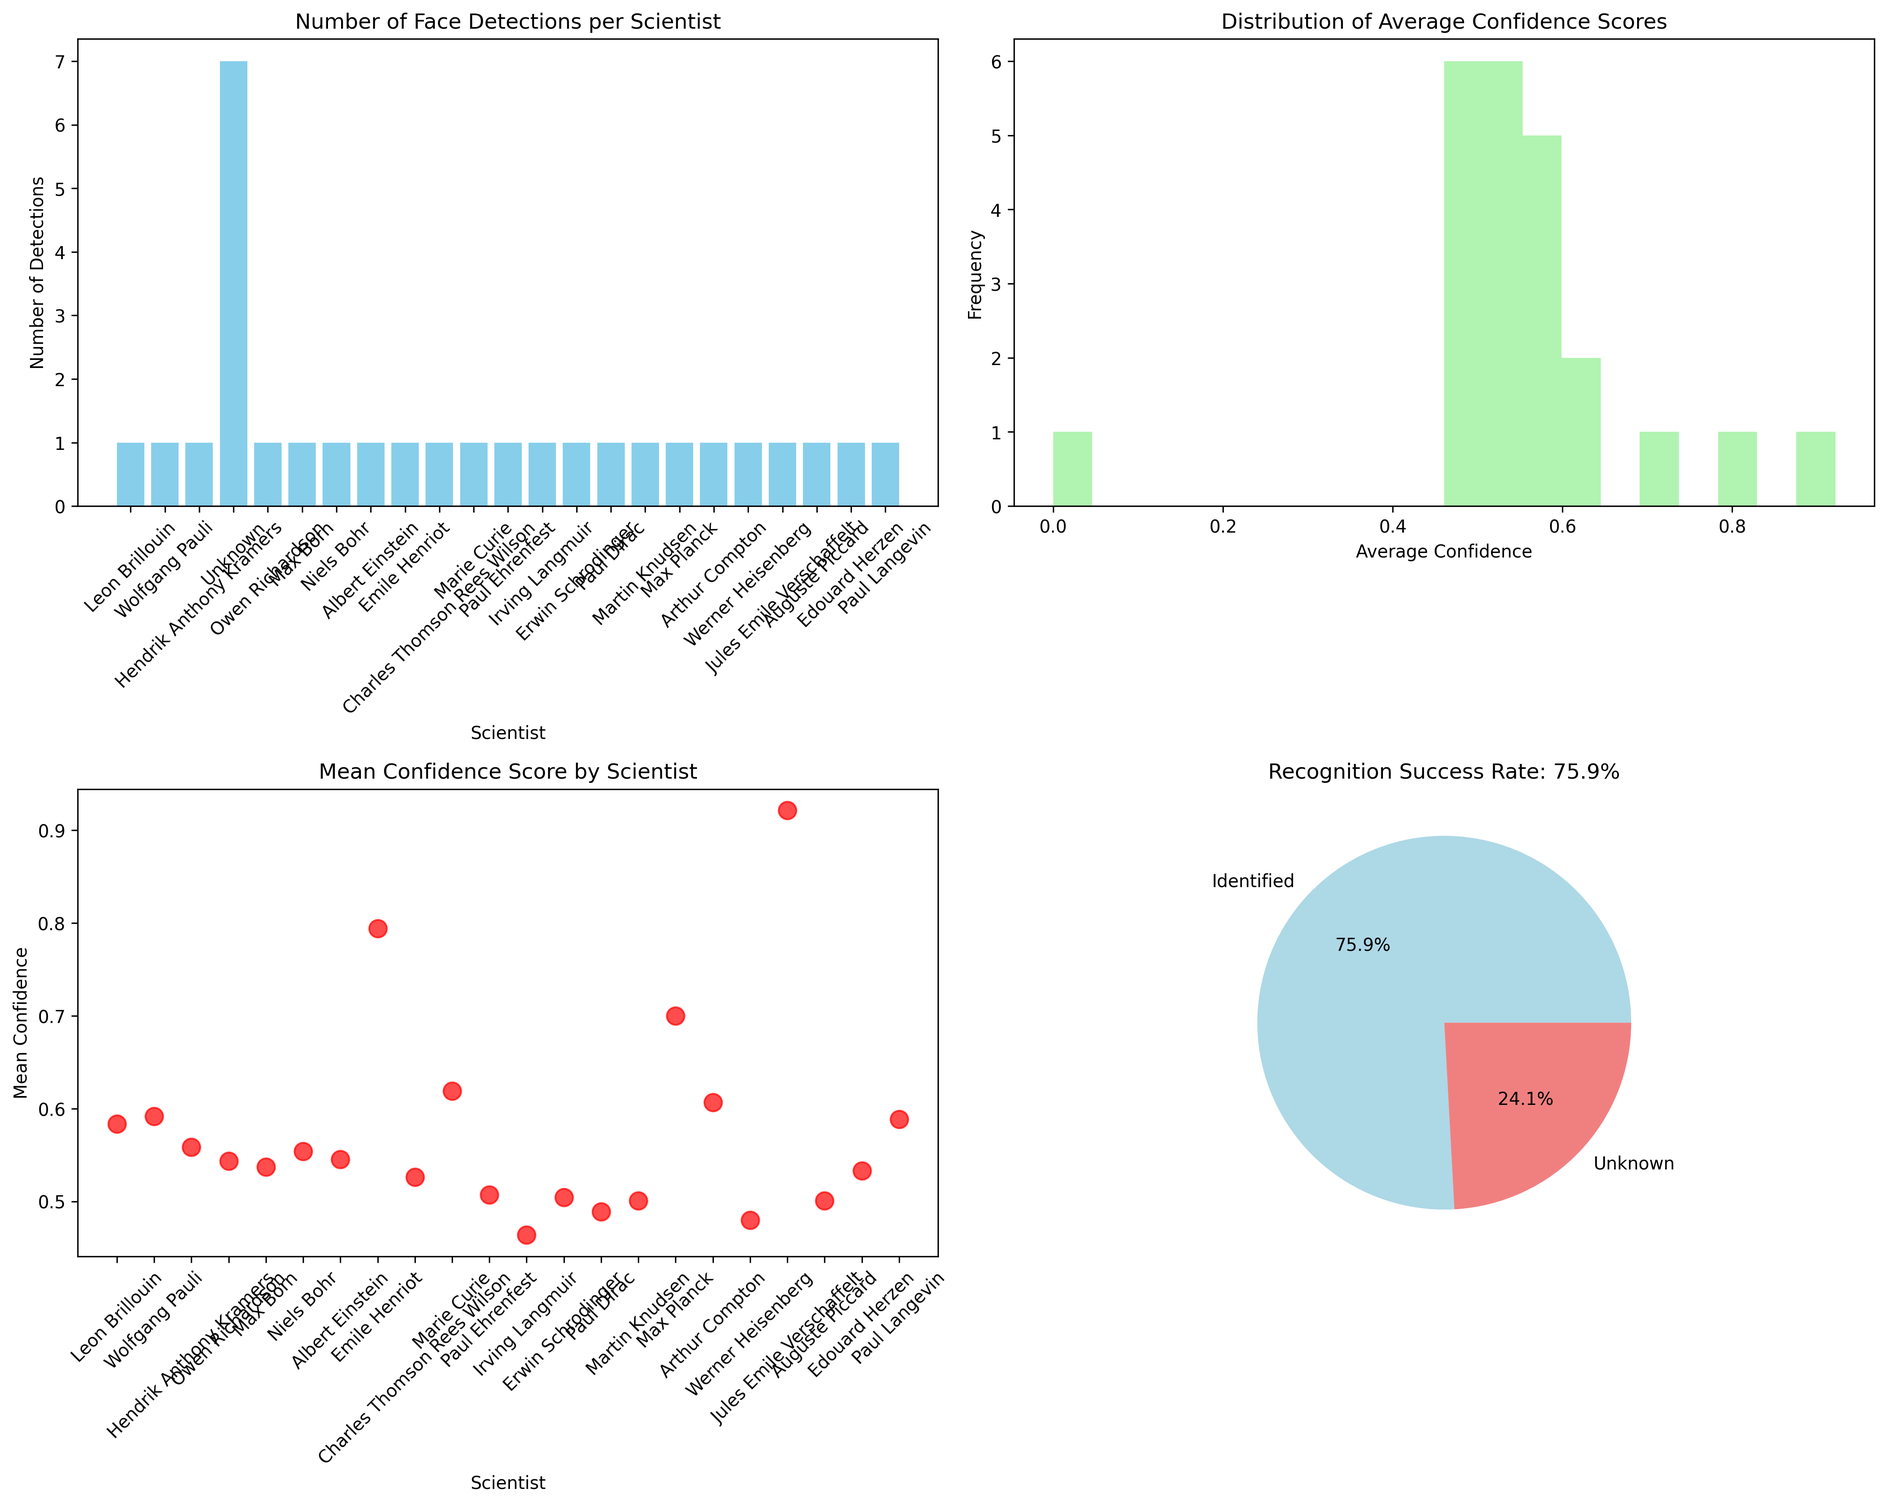
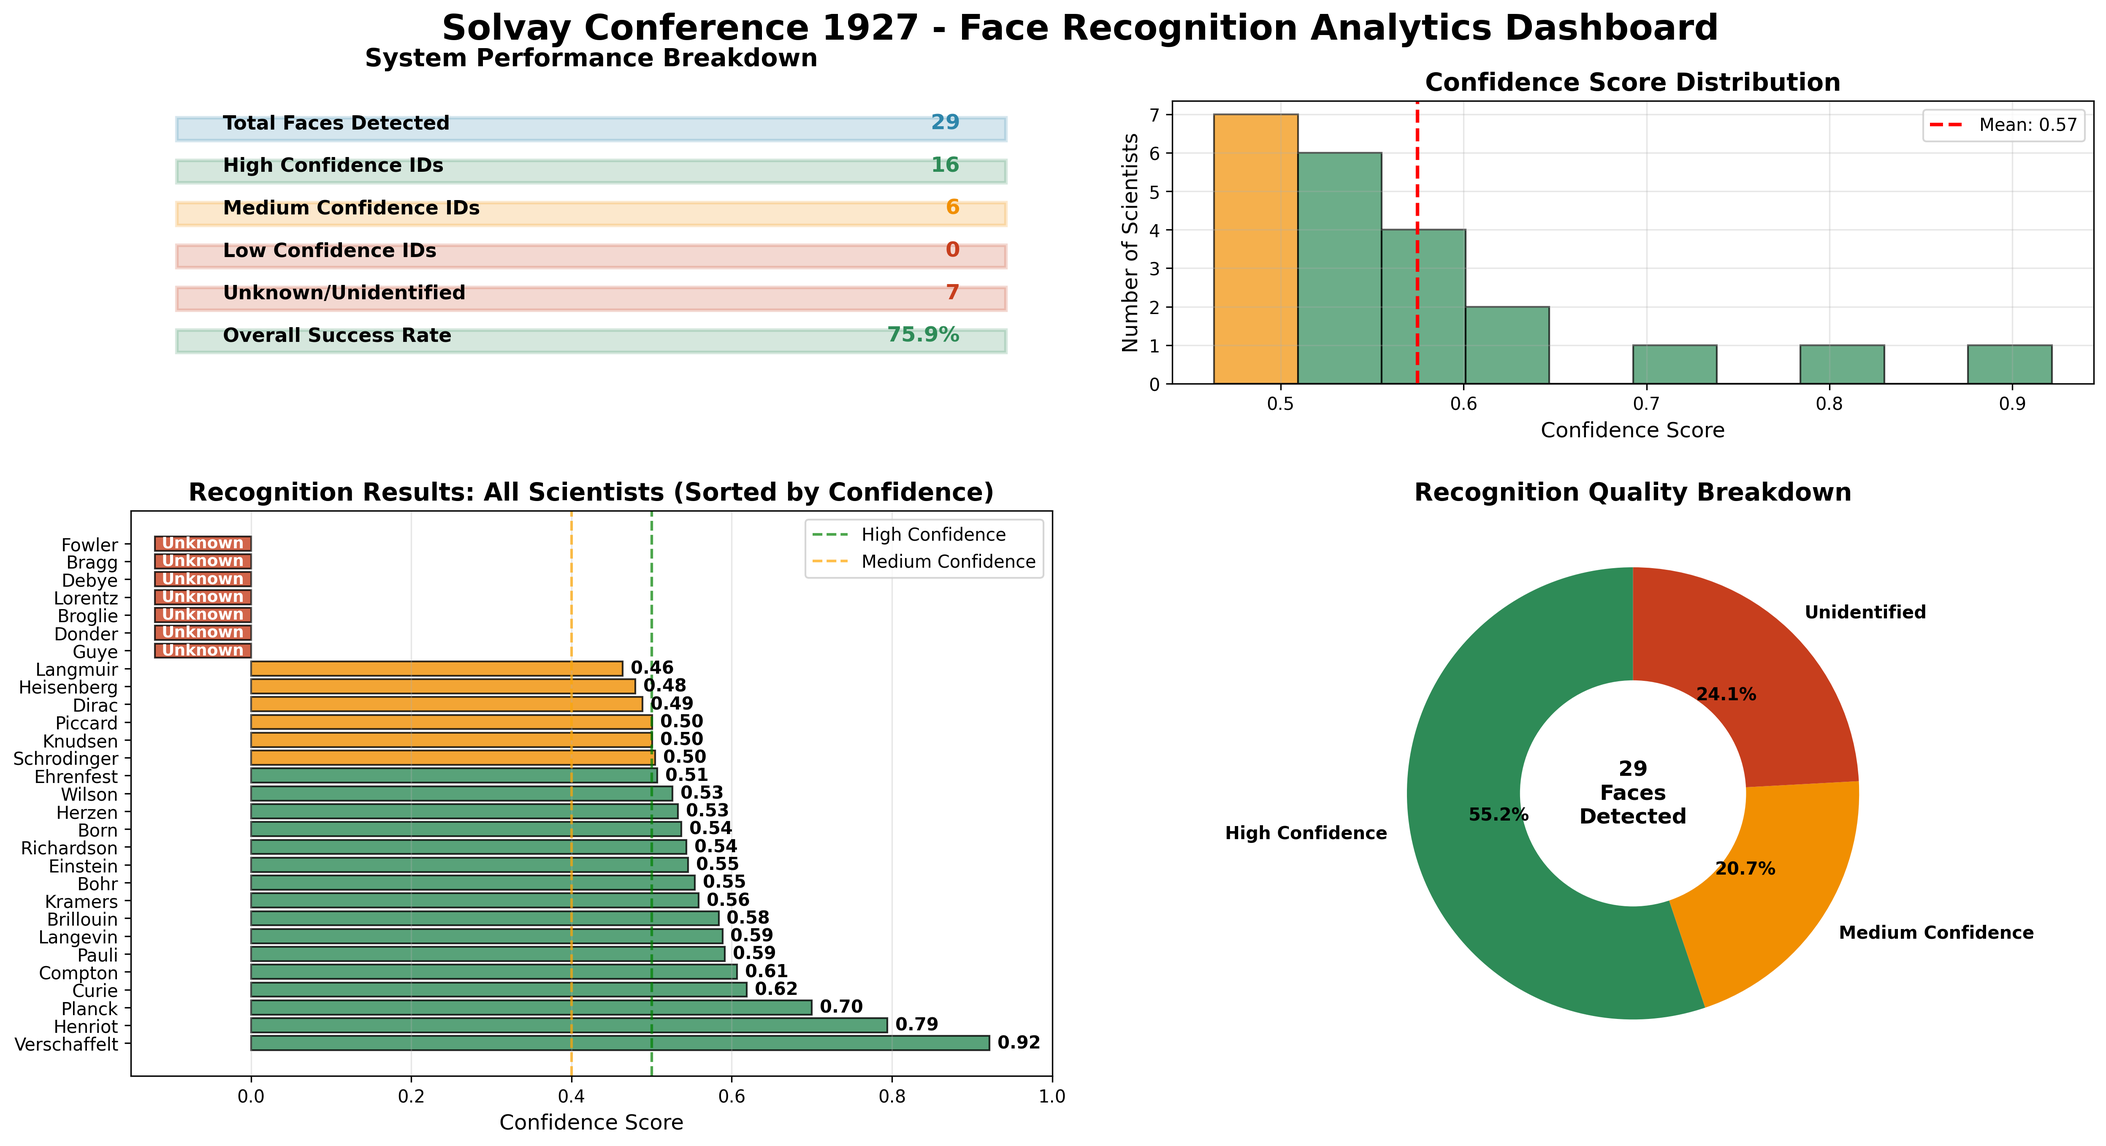
W1CT - Starting to work on cleaning up the output and simplifying the program, everything is working well enough now that I'm satisfied with the proof-of-concept and want to start working on the advanced version that will let you click on a name and have a transformer summarize their wikipedia page 
-Cleaned up the analytics output for proper colorization within the analytics range grades guidelines

diff --git a/Graduate Projects - MS AI and Machine Learning/CSC580 Capstone/W1CT_Face_Detector_Intermediate.py b/Graduate Projects - MS AI and Machine Learning/CSC580 Capstone/W1CT_Face_Detector_Intermediate.py
@@ -292,10 +292,11 @@ class EnhancedSolvayFaceRecognizer:
             face_location = [face["location"][0], face["location"][1], face["location"][2], face["location"][3]]
             top, right, bottom, left = face_location
 
-            #Color coding based on confidence
-            if face["confidence"] > 0.5:
+            #Color coding based on confidence (round to 2 decimal places for consistent display)
+            rounded_confidence = round(face["confidence"], 2)
+            if rounded_confidence > 0.5:
                 color = "green"
-            elif face["confidence"] > 0.3:
+            elif rounded_confidence >= 0.4:
                 color = "orange"
             else:
                 color = "red"
@@ -404,7 +405,7 @@ class EnhancedSolvayFaceRecognizer:
             f"Total Faces Detected: {total_faces}",
             f"Correctly Identified: {correct_identifications}",
             f"Incorrectly Identified: {incorrect_identifications}",
-            f"Unknown/Unidentified: {unidentified_count}",
+            f"Unidentified: {unidentified_count}",
             f"Accuracy (of identified): {accuracy:.1f}%",
             f"Overall Success Rate: {(correct_identifications/total_faces*100):.1f}%"
         ]
@@ -435,51 +436,285 @@ class EnhancedSolvayFaceRecognizer:
         return name_counts, confidence_stats, df
 
     def create_visualization(self, name_counts, confidence_stats, output_dir):
-        """Create visualization plots of the results"""
-        #Create figure with subplots
-        fig, ((ax1, ax2), (ax3, ax4)) = plt.subplots(2, 2, figsize=(15, 12))
-
-        #Plot 1: Number of detections per scientist
-        scientists = list(name_counts.keys())
-        counts = list(name_counts.values())
-
-        ax1.bar(scientists, counts, color='skyblue')
-        ax1.set_title('Number of Face Detections per Scientist')
-        ax1.set_xlabel('Scientist')
-        ax1.set_ylabel('Number of Detections')
-        ax1.tick_params(axis='x', rotation=45)
-
-        #Plot 2: Confidence distribution
-        all_confidences = [stats['mean_confidence'] for stats in confidence_stats.values()]
-        ax2.hist(all_confidences, bins=20, color='lightgreen', alpha=0.7)
-        ax2.set_title('Distribution of Average Confidence Scores')
-        ax2.set_xlabel('Average Confidence')
-        ax2.set_ylabel('Frequency')
-
-        #Plot 3: Confidence by scientist
-        scientists_with_conf = [name for name in confidence_stats.keys() if name != 'Unknown']
-        mean_confs = [confidence_stats[name]['mean_confidence'] for name in scientists_with_conf]
-
-        ax3.scatter(scientists_with_conf, mean_confs, s=100, alpha=0.7, color='red')
-        ax3.set_title('Mean Confidence Score by Scientist')
-        ax3.set_xlabel('Scientist')
-        ax3.set_ylabel('Mean Confidence')
-        ax3.tick_params(axis='x', rotation=45)
-
-        #Plot 4: Recognition success rate
-        total_faces = sum(name_counts.values())
-        identified_faces = total_faces - name_counts.get('Unknown', 0)
-        success_rate = (identified_faces / total_faces) * 100
-
-        ax4.pie([identified_faces, name_counts.get('Unknown', 0)],
-                labels=['Identified', 'Unknown'],
-                autopct='%1.1f%%',
-                colors=['lightblue', 'lightcoral'])
-        ax4.set_title(f'Recognition Success Rate: {success_rate:.1f}%')
-
-        plt.tight_layout()
-        plt.savefig(os.path.join(output_dir, 'enhanced_recognition_analytics.png'), dpi=300, bbox_inches='tight')
+        """Create enhanced visualization with meaningful analytics"""
+        plt.style.use('default')
+        
+        # Create figure with better layout (removed historical context for more space)
+        fig = plt.figure(figsize=(20, 10))
+        gs = fig.add_gridspec(2, 4, hspace=0.3, wspace=0.3, height_ratios=[1, 2])
+        
+        # Color scheme
+        primary_color = '#2E86AB'
+        success_color = '#A23B72'
+        warning_color = '#F18F01'
+        error_color = '#C73E1D'
+        
+        # 1. System Performance Dashboard (top left)
+        ax1 = fig.add_subplot(gs[0, :2])
+        self._create_performance_dashboard(ax1, name_counts, confidence_stats)
+        
+        # 2. Confidence Analysis (top right)
+        ax2 = fig.add_subplot(gs[0, 2:])
+        self._create_confidence_analysis(ax2, confidence_stats, primary_color, success_color)
+        
+        # 3. Recognition Accuracy by Scientist (bottom row, compressed slightly to avoid overlap)
+        ax3 = fig.add_subplot(gs[1, :2])
+        self._create_accuracy_breakdown(ax3, confidence_stats, primary_color, success_color, error_color)
+        
+        # 4. Confusion Analysis (bottom right, more space)
+        ax4 = fig.add_subplot(gs[1, 2:])
+        
+        # Calculate confidence breakdown for the donut chart (round confidence for consistent display)
+        confidence_breakdown = {'high': 0, 'medium': 0, 'low': 0}
+        for name, stats in confidence_stats.items():
+            if name != 'Unknown':
+                rounded_conf = round(stats['mean_confidence'], 2)
+                if rounded_conf > 0.5:
+                    confidence_breakdown['high'] += stats['count']
+                elif rounded_conf >= 0.4:
+                    confidence_breakdown['medium'] += stats['count']
+                else:
+                    confidence_breakdown['low'] += stats['count']
+        
+        self._temp_confidence_breakdown = confidence_breakdown
+        self._create_confusion_insights(ax4, name_counts, warning_color, error_color)
+        
+        plt.suptitle('Solvay Conference 1927 - Face Recognition Analytics Dashboard', 
+                    fontsize=20, fontweight='bold', y=0.95)
+        
+        plt.savefig(os.path.join(output_dir, 'recognition_analytics.png'), 
+                   dpi=300, bbox_inches='tight', facecolor='white')
         plt.close()
+    
+    def _create_performance_dashboard(self, ax, name_counts, confidence_stats):
+        """Create a clean performance metrics dashboard with confidence breakdown"""
+        ax.axis('off')
+        
+        total_faces = sum(name_counts.values())
+        unknown_faces = name_counts.get('Unknown', 0)
+        
+        # Calculate confidence breakdowns using rounded values for consistency
+        high_confidence = 0
+        medium_confidence = 0
+        low_confidence = 0
+        
+        for name, stats in confidence_stats.items():
+            if name != 'Unknown':
+                rounded_conf = round(stats['mean_confidence'], 2)
+                if rounded_conf > 0.5:
+                    high_confidence += stats['count']
+                elif rounded_conf >= 0.4:
+                    medium_confidence += stats['count']
+                else:
+                    low_confidence += stats['count']
+        
+        metrics = [
+            ('Total Faces Detected', total_faces, '#2E86AB'),
+            ('High Confidence IDs', high_confidence, '#2E8B57'),  # Green
+            ('Medium Confidence IDs', medium_confidence, '#F18F01'),  # Orange
+            ('Low Confidence IDs', low_confidence, '#C73E1D'),  # Red
+            ('Unknown/Unidentified', unknown_faces, '#C73E1D'),  # Red
+            ('Overall Success Rate', f"{((high_confidence + medium_confidence + low_confidence)/total_faces*100):.1f}%", '#2E8B57')
+        ]
+        
+        # Adjust layout for more metrics
+        y_positions = [0.9, 0.75, 0.6, 0.45, 0.3, 0.15]
+        
+        for i, (label, value, color) in enumerate(metrics):
+            # Metric box
+            rect = plt.Rectangle((0.05, y_positions[i] - 0.04), 0.9, 0.08, 
+                               facecolor=color, alpha=0.2, edgecolor=color, linewidth=2)
+            ax.add_patch(rect)
+            
+            # Label and value
+            ax.text(0.1, y_positions[i], label, fontsize=11, fontweight='bold')
+            ax.text(0.9, y_positions[i], str(value), fontsize=12, fontweight='bold', 
+                   ha='right', color=color)
+        
+        ax.set_xlim(0, 1)
+        ax.set_ylim(0, 1)
+        ax.set_title('System Performance Breakdown', fontsize=14, fontweight='bold', pad=20)
+    
+    def _create_confidence_analysis(self, ax, confidence_stats, primary_color, success_color):
+        """Create confidence distribution analysis"""
+        # Get confidence data for identified scientists only
+        identified_scientists = [name for name in confidence_stats.keys() if name != 'Unknown']
+        confidences = [confidence_stats[name]['mean_confidence'] for name in identified_scientists]
+        
+        if not confidences:
+            ax.text(0.5, 0.5, 'No identified scientists', ha='center', va='center', fontsize=12)
+            ax.set_title('Confidence Analysis', fontsize=14, fontweight='bold')
+            return
+        
+        # Create histogram with better bins
+        n_bins = min(10, len(confidences))
+        n, bins, patches = ax.hist(confidences, bins=n_bins, alpha=0.7, edgecolor='black', linewidth=1)
+        
+        # Color bars based on confidence level (round for consistency)
+        for i, patch in enumerate(patches):
+            rounded_bin = round(bins[i], 2)
+            if rounded_bin < 0.4:
+                patch.set_facecolor(error_color := '#C73E1D')
+            elif rounded_bin <= 0.5:
+                patch.set_facecolor('#F18F01')
+            else:
+                patch.set_facecolor('#2E8B57')
+        
+        ax.axvline(np.mean(confidences), color='red', linestyle='--', linewidth=2, 
+                  label=f'Mean: {np.mean(confidences):.2f}')
+        ax.set_xlabel('Confidence Score', fontsize=12)
+        ax.set_ylabel('Number of Scientists', fontsize=12)
+        ax.set_title('Confidence Score Distribution', fontsize=14, fontweight='bold')
+        ax.legend()
+        ax.grid(True, alpha=0.3)
+    
+    def _create_accuracy_breakdown(self, ax, confidence_stats, primary_color, success_color, error_color):
+        """Create scientist-by-scientist accuracy breakdown including unidentified faces"""
+        identified_scientists = [name for name in confidence_stats.keys() if name != 'Unknown']
+        
+        # Add identified scientists to the data
+        scientist_data = [(name, confidence_stats[name]['mean_confidence'], 'identified') 
+                         for name in identified_scientists]
+        
+        # Get unidentified scientists from ground truth
+        if hasattr(self, 'manual_ground_truth') and self.manual_ground_truth:
+            # Get all scientists that should be in the photo from ground truth
+            all_gt_scientists = set()
+            for face_data in self.manual_ground_truth.values():
+                gt_name = face_data['ground_truth']
+                if gt_name != "Unknown Position":
+                    all_gt_scientists.add(gt_name)
+            
+            # Find scientists in ground truth but not identified
+            identified_names = set(identified_scientists)
+            unidentified_scientists = all_gt_scientists - identified_names
+            
+            # Add unidentified scientists with negative value to make them visible as red bars
+            for scientist in unidentified_scientists:
+                scientist_data.append((scientist, -0.12, 'unidentified'))
+        
+        if not scientist_data:
+            ax.text(0.5, 0.5, 'No faces detected', ha='center', va='center', fontsize=12)
+            ax.set_title('Recognition Accuracy by Scientist', fontsize=14, fontweight='bold')
+            return
+        
+        # Sort by confidence (identified scientists first, then unidentified)
+        scientist_data.sort(key=lambda x: x[1], reverse=True)
+        
+        names = [item[0] for item in scientist_data]
+        confidences = [item[1] for item in scientist_data]
+        status = [item[2] for item in scientist_data]
+        
+        # Create horizontal bar chart with colors (round confidence for consistent display)
+        colors = []
+        for i, conf in enumerate(confidences):
+            rounded_conf = round(conf, 2)
+            if status[i] == 'unidentified' or conf < 0:
+                colors.append(error_color)  # Red for unidentified (negative values)
+            elif rounded_conf > 0.5:
+                colors.append('#2E8B57')    # Green for high confidence
+            elif rounded_conf >= 0.4:
+                colors.append('#F18F01')    # Orange for medium confidence (includes 0.5)
+            else:
+                colors.append(error_color)  # Red for low confidence
+        
+        bars = ax.barh(range(len(names)), confidences, color=colors, alpha=0.8, edgecolor='black')
+        
+        # Add confidence values on bars
+        for i, (bar, conf, stat) in enumerate(zip(bars, confidences, status)):
+            if stat == 'identified':  # Show confidence for identified scientists
+                ax.text(bar.get_width() + 0.01, bar.get_y() + bar.get_height()/2, 
+                       f'{conf:.2f}', va='center', fontsize=10, fontweight='bold')
+            elif stat == 'unidentified':  # Show "Unknown" inside negative bars
+                ax.text(bar.get_width() / 2, bar.get_y() + bar.get_height()/2, 
+                       'Unknown', va='center', ha='center', fontsize=9, fontweight='bold', color='white')
+        
+        ax.set_yticks(range(len(names)))
+        # Truncate long names for better display
+        display_names = []
+        for name in names:
+            display_names.append(name.split()[-1] if len(name.split()) > 1 else name)
+        
+        ax.set_yticklabels(display_names, fontsize=10)
+        ax.set_xlabel('Confidence Score', fontsize=12)
+        ax.set_title('Recognition Results: All Scientists (Sorted by Confidence)', 
+                    fontsize=14, fontweight='bold')
+        ax.grid(True, axis='x', alpha=0.3)
+        ax.set_xlim(-0.15, 1)  # Extended more to show negative bars for unidentified scientists
+        
+        # Add confidence thresholds
+        ax.axvline(0.5, color='green', linestyle='--', alpha=0.7, label='High Confidence')
+        ax.axvline(0.4, color='orange', linestyle='--', alpha=0.7, label='Medium Confidence')
+        ax.legend(loc='upper right')
+    
+    def _create_confusion_insights(self, ax, name_counts, warning_color, error_color):
+        """Create insights about recognition challenges"""
+        ax.axis('off')
+        
+        total_faces = sum(name_counts.values())
+        unknown_faces = name_counts.get('Unknown', 0)
+        identified_faces = total_faces - unknown_faces
+        
+        # Break down identified faces by confidence level
+        high_confidence = 0
+        medium_confidence = 0
+        low_confidence = 0
+        
+        # Access confidence stats from parent scope (we need to pass this data)
+        # For now, we'll approximate based on the identified vs unknown split
+        # This is a simplified version - ideally we'd pass detailed confidence breakdown
+        
+        if hasattr(self, '_temp_confidence_breakdown'):
+            high_confidence = self._temp_confidence_breakdown.get('high', 0)
+            medium_confidence = self._temp_confidence_breakdown.get('medium', 0) 
+            low_confidence = self._temp_confidence_breakdown.get('low', 0)
+        else:
+            # Fallback: assume all identified are high confidence for now
+            high_confidence = identified_faces
+        
+        # Create pie chart with confidence breakdown
+        if total_faces > 0:
+            sizes = []
+            labels = []
+            colors = []
+            
+            if high_confidence > 0:
+                sizes.append(high_confidence)
+                labels.append('High Confidence')
+                colors.append('#2E8B57')  # Green
+                
+            if medium_confidence > 0:
+                sizes.append(medium_confidence)
+                labels.append('Medium Confidence') 
+                colors.append('#F18F01')  # Orange/Yellow
+                
+            if low_confidence > 0:
+                sizes.append(low_confidence)
+                labels.append('Low Confidence')
+                colors.append(error_color)  # Red
+                
+            if unknown_faces > 0:
+                sizes.append(unknown_faces)
+                labels.append('Unidentified')
+                colors.append(error_color)  # Red
+            
+            wedges, texts, autotexts = ax.pie(sizes,
+                                            labels=labels,
+                                            autopct='%1.1f%%',
+                                            colors=colors,
+                                            startangle=90,
+                                            textprops={'fontsize': 10, 'fontweight': 'bold'})
+            
+            # Add center circle for donut effect
+            centre_circle = plt.Circle((0,0), 0.50, fc='white')
+            ax.add_artist(centre_circle)
+            
+            # Add center text
+            ax.text(0, 0, f'{total_faces}\nFaces\nDetected', ha='center', va='center', 
+                   fontsize=12, fontweight='bold')
+        
+        ax.set_title('Recognition Quality Breakdown', fontsize=14, fontweight='bold')
+    
 
     def save_results(self, image, identified_faces, output_path):
         """Save the annotated image and results with enhanced analytics"""
@@ -520,7 +755,7 @@ class EnhancedSolvayFaceRecognizer:
         print(f"Details saved to {results_path}")
         print(f"Analytics saved to {csv_path}")
         print(f"Detailed analytics saved to {analytics_path}")
-        print(f"Visualization saved to {os.path.join(output_dir, 'enhanced_recognition_analytics.png')}")
+        print(f"Visualization saved to {os.path.join(output_dir, 'recognition_analytics.png')}")
 
     def run_recognition(self):
         """Main function to run the facial recognition with enhanced features"""
